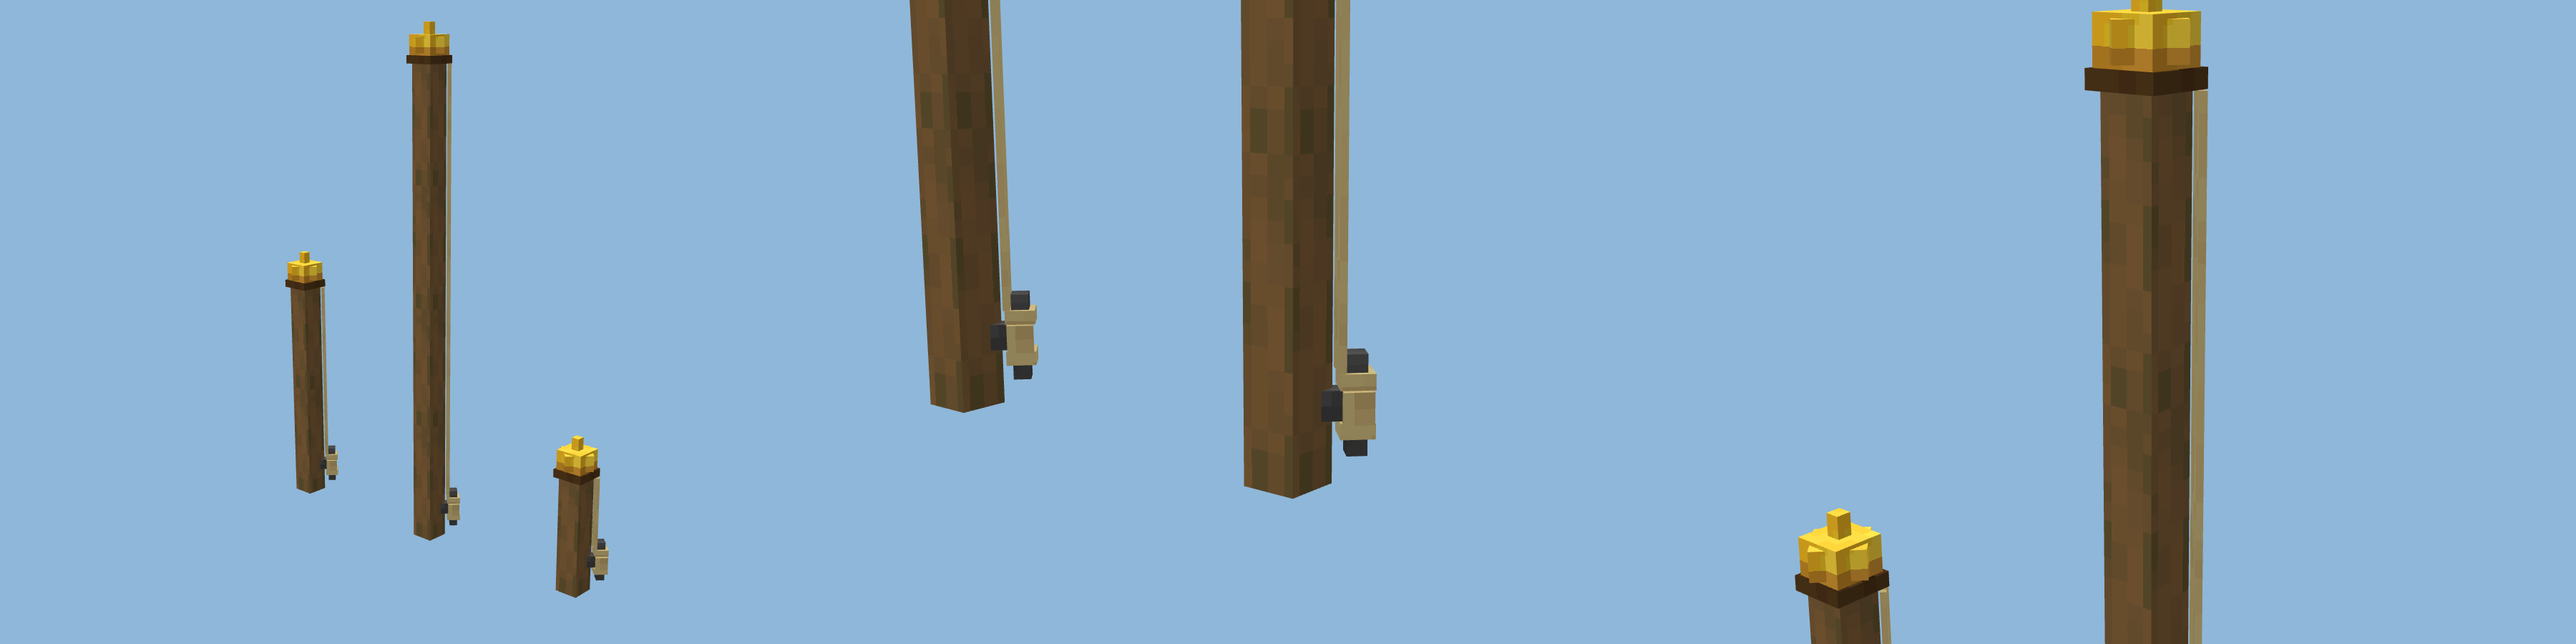
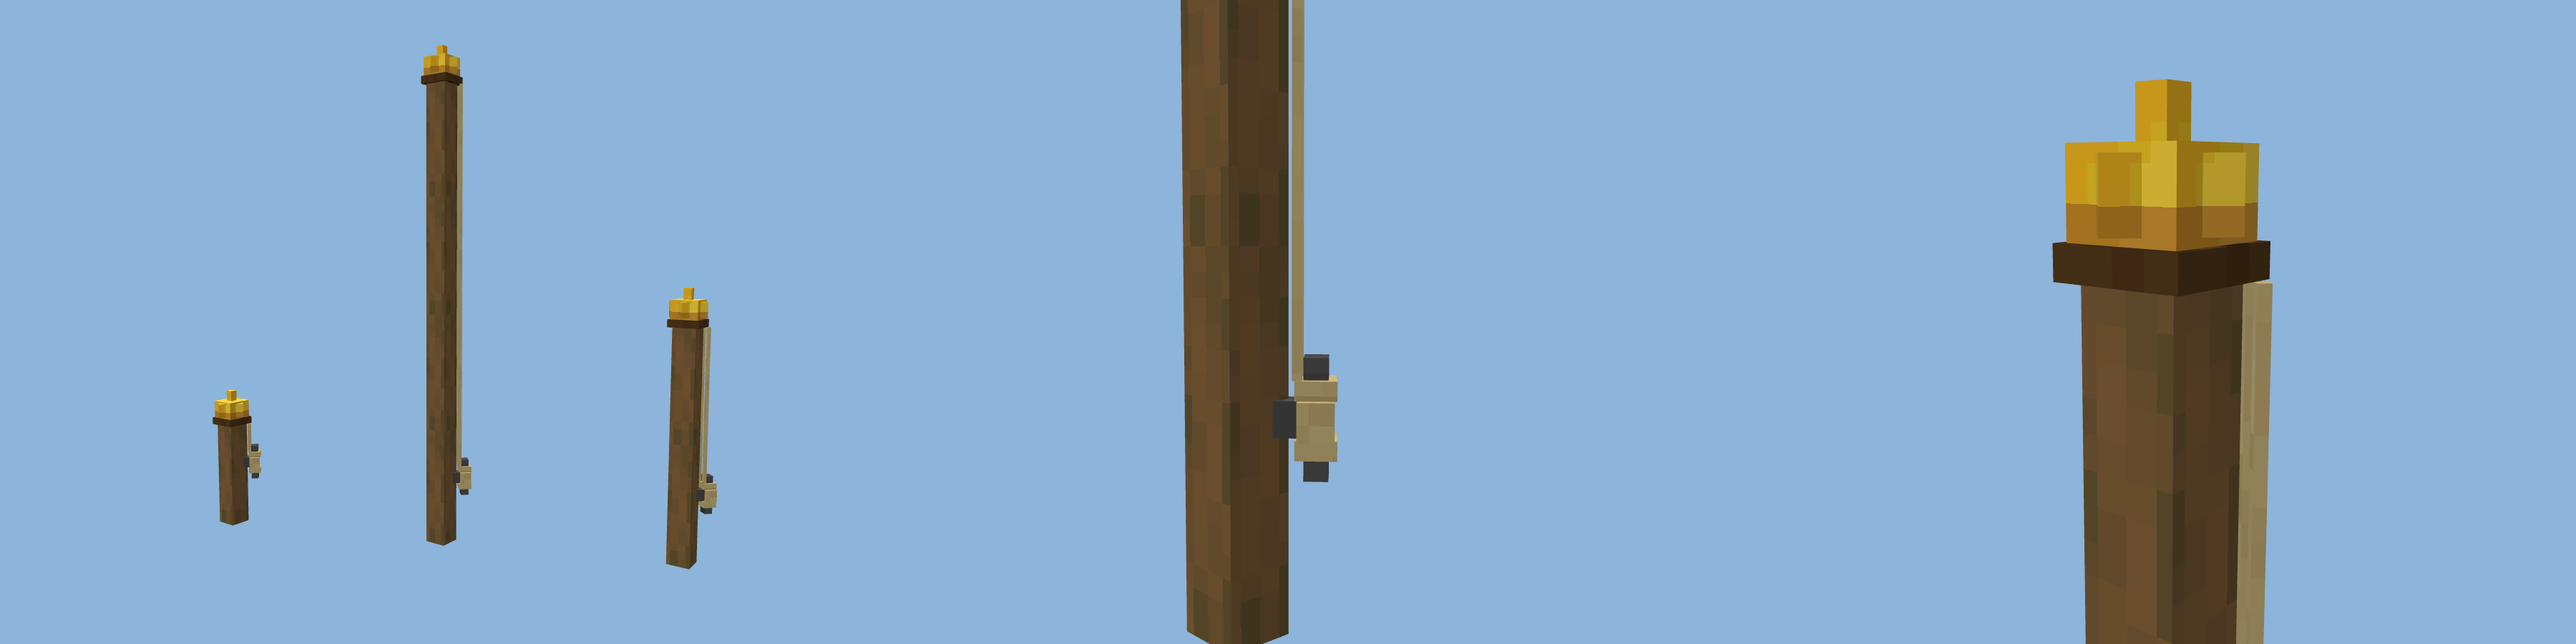
fix(flag): keep the foot's halyard to the top third with the cleat raised

diff --git a/art/README.md b/art/README.md
@@ -817,10 +817,16 @@ Flagpole parts (VIS1a, tall poles):
   end at 15.95 under the truck as before.
 - **Halyard:** two `stripped_birch_log` lines 0.4 x 0.4 px at local x 10.3..10.7, z 7.15..7.55 and 8.45..8.85, turned
   45 degrees about y round (8, 4, 8) like the cleat, so they stand about 0.6 px off the pole's corner on the cleat's
-  diagonal (the cloth flies on the other side). They leave the wound cleat at y 5.6 (single, bottom), run through the
+  diagonal (the cloth flies on the other side). They leave the wound cleat at y 10.7 (single, bottom), run through the
   middle segments 0..16 and end under the truck at 15 (top, single). The single pole's one 0.5 px halyard became the
   same two lines. In the render the pair reads as one thin rope from a few blocks away, which is what a halyard looks
   like; up close the two parts of the loop show.
+- **Foot (VIS1a-b, playtest note "the rope only in the top third of the lowest block"):** on `flagpole_bottom` and
+  `flagpole` the halyard lines start at y 10.7 (the top third), so the lower two thirds of the foot block are a bare
+  pole. The cleat and its wound rope moved up with them by 5.1 px (horn y 6.6..11.6, body 8.35..9.85, rope rings
+  7.5..8.3 and 9.9..10.7, rotation origin (8, 9.1, 8)); the anvil and rope side UVs moved with the parts (position
+  UVs), the rings' rotated UVs stayed. Done in Blockbench on the committed projects (opened with `loadModelFile` from
+  `fs`), re-exported and re-saved like VIS1a; pole, truck, finial, middle and top unchanged.
 - Built from a part list (a scratch Python script derived the parts from the single pole's JSON), loaded cube by cube
   into a `java_block` project per model (`VIS1A.load2` in `risky_eval`: textures from `art/vanilla/` with namespace
   `minecraft`, folder `block`), exported with `Codecs.java_block.compile()` (names and zero rotations stripped,
@@ -830,6 +836,8 @@ Flagpole parts (VIS1a, tall poles):
 - Render `renders/flagpole_parts.png`: a four-block pole (bottom, two middles, top), the single pole and a two-block
   pole (left: overview; middle: the cleat and halyard at the foot; right: the joint under the top's truck). Rendered
   from a scratch Generic (`free`) project holding all parts stacked, with a `THREE.WebGLRenderer` in `risky_eval`.
+  VIS1a-b re-rendered it without a scratch project: each part's `Project.model_3d` cloned (non-mesh children dropped)
+  and stacked in a plain `THREE.Scene`, three 1200 x 900 viewports in one 3600 x 900 canvas.
 
 Treasure map and receipt (ART4):
 - Two `java_block` item projects, `treasure_map.bbmodel` and `ship_receipt.bbmodel`, no block of the same name. No new
